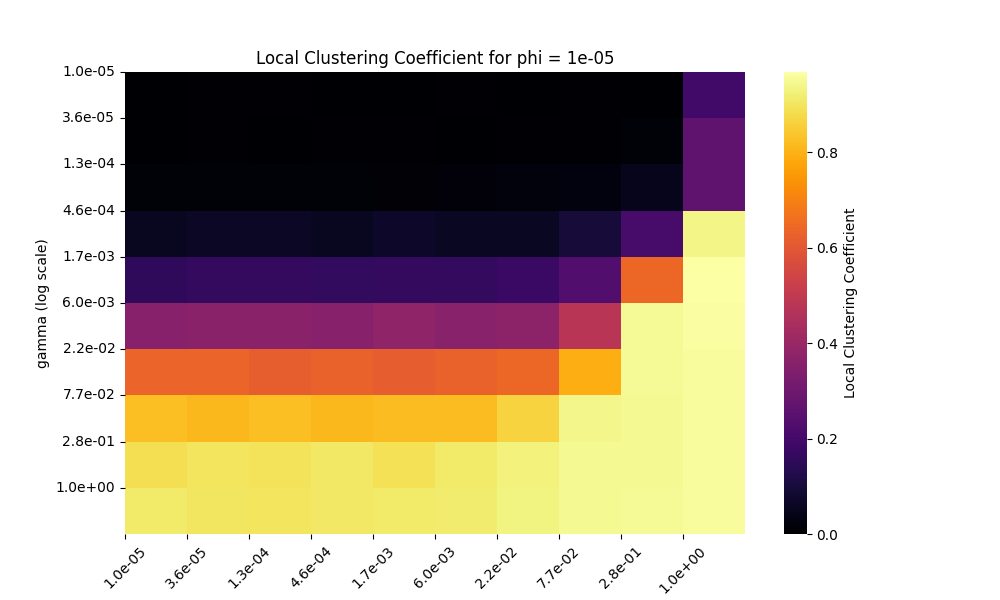
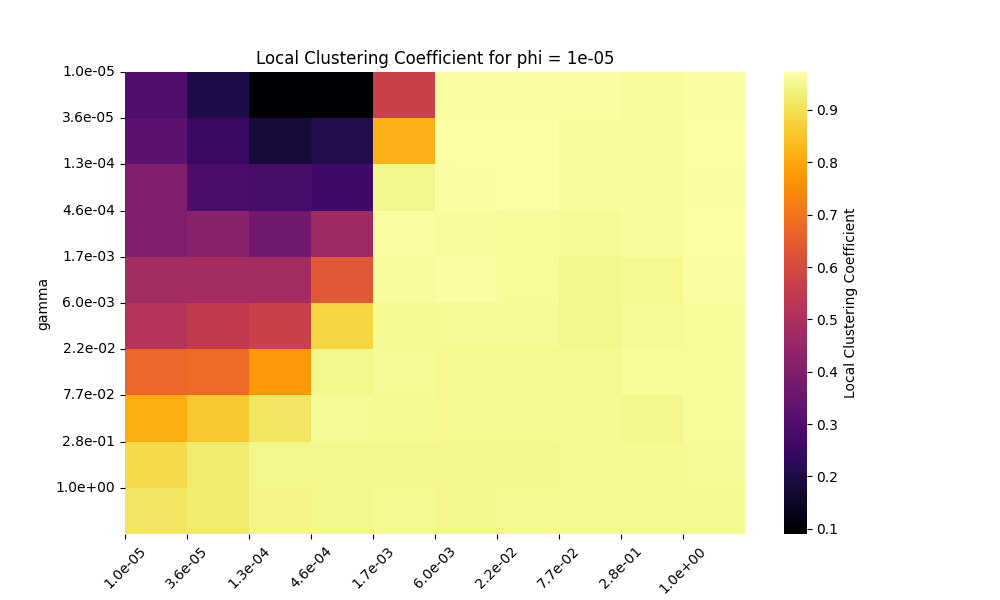
Heatmap of modified parameters

diff --git a/FinalProject/run_model.py b/FinalProject/run_model.py
@@ -25,10 +25,10 @@ def calculate_clustering_coefficient(model):
     return local_clustering, global_clustering
 
 # Define the range of parameters using log scale
-phi_values = [0.00001, 0.0001]
+phi_values = [0.00001]
 sphi_values = np.logspace(-5, 0, 10)
 gamma_values = np.logspace(-5, 0, 10)
-num_simulations = 10  # Number of Monte Carlo simulations
+num_simulations = 3  # Number of Monte Carlo simulations
 
 # Function to run the model and collect clustering coefficients
 def run_simulation(phi, sphi, gamma):
@@ -38,7 +38,7 @@ def run_simulation(phi, sphi, gamma):
 
     for _ in range(num_simulations):
         model = SocialModel(100, 100, 100, phi=phi, sphi=sphi, gamma=gamma)
-        for _ in range(10):
+        for _ in range(3000):
             model.step()
         local_clustering, global_clustering = calculate_clustering_coefficient(model)
         local_clustering_list.append(local_clustering)
